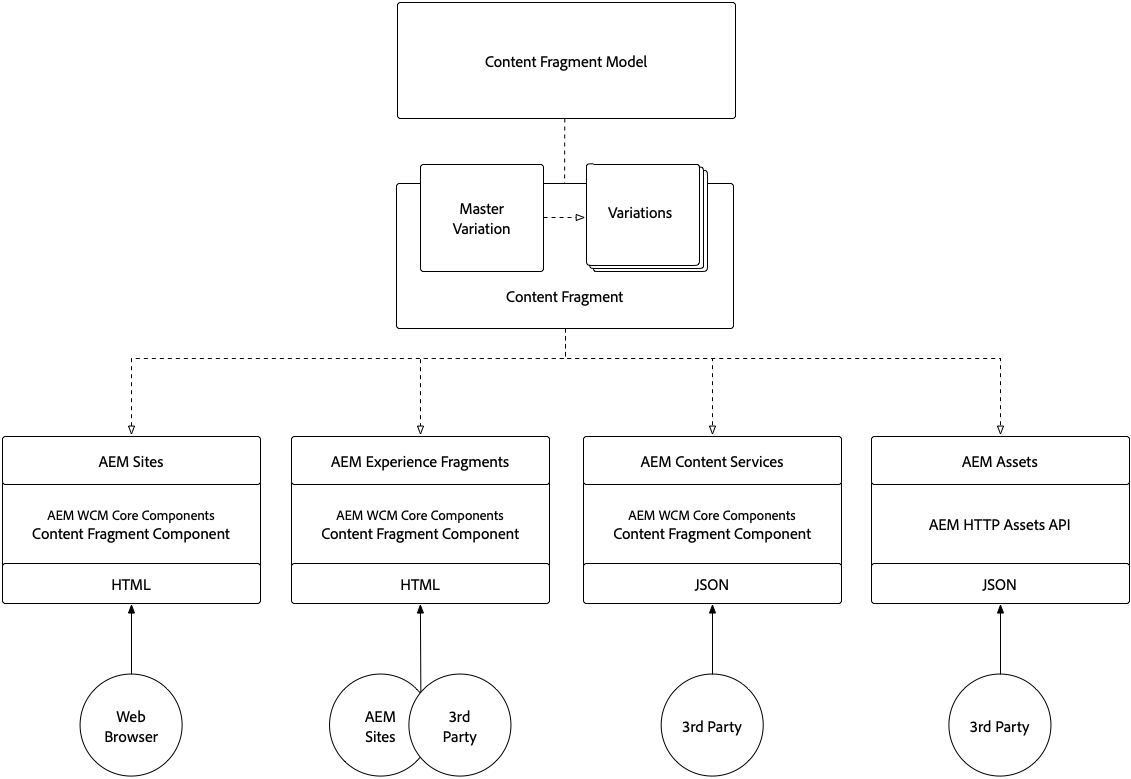
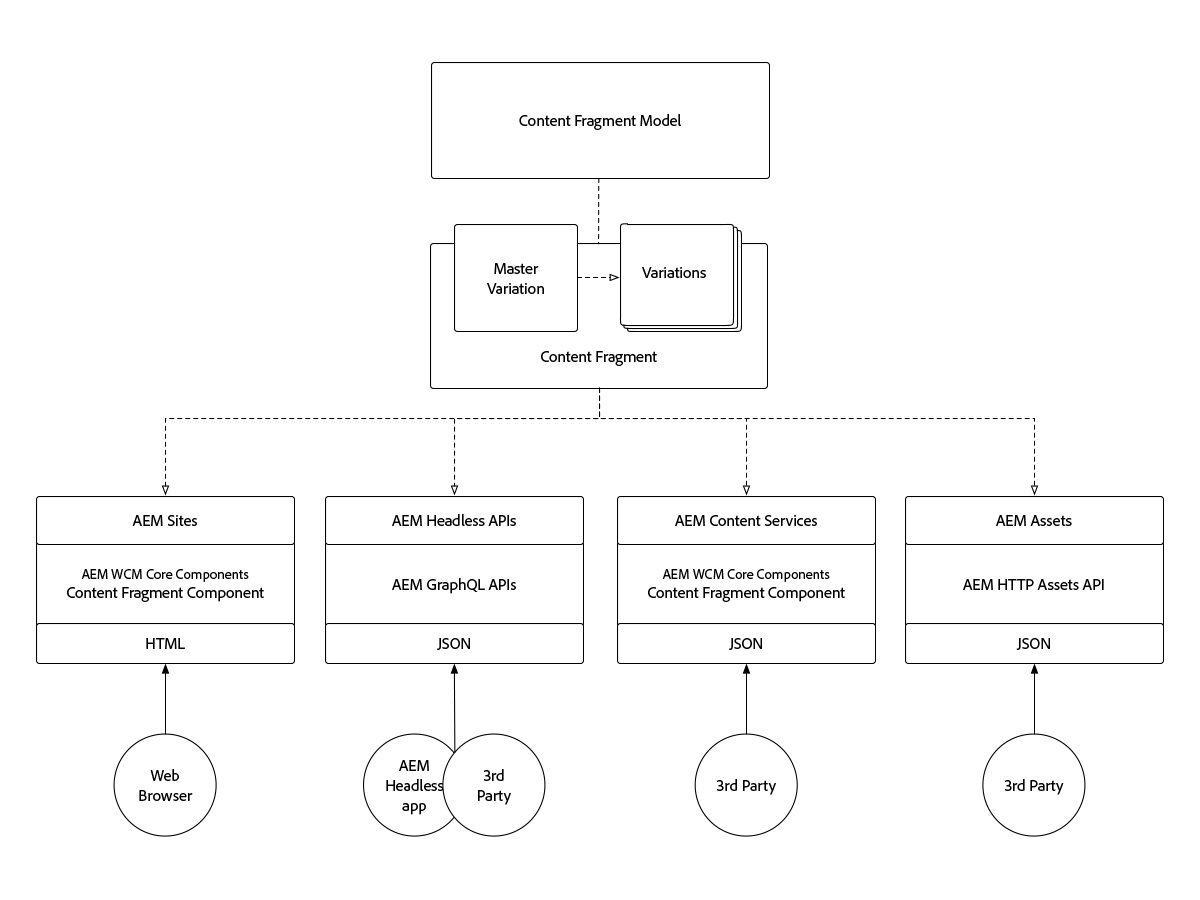
Updated CF to include AEM Headless APIs (#1110)
* Updated CF to include AEM Headless APIs

diff --git a/help/sites/content-fragments/understand-content-fragments-and-experience-fragments.md b/help/sites/content-fragments/understand-content-fragments-and-experience-fragments.md
@@ -1,5 +1,5 @@
 ---
-title: Understand Content Fragments and Experience Fragments
+title: Content Fragments and Experience Fragments
 description: Learn the similarities and differences between Content Fragments and Experience Fragments, and when and how to use each type.
 sub-product: Experience Manager Assets, Experience Manager Sites
 feature: Content Fragments, Experience Fragments
@@ -13,11 +13,11 @@ role: User
 level: Beginner
 exl-id: ccbc68d1-a83e-4092-9a49-53c56c14483e
 ---
-# Understand Content Fragments and Experience Fragments
+# Content Fragments and Experience Fragments
 
  Adobe Experience Manager's Content Fragments and Experience Fragments may seem similar on the surface, but each play key roles in different use cases. Learn how Content Fragments and Experience Fragments are similar, different, and when and how to use each.
 
-## Content Fragments and Experience Fragments comparison
+## Comparison
 
 <table>
 <tbody><tr><td><strong> </strong></td>
@@ -90,13 +90,17 @@ exl-id: ccbc68d1-a83e-4092-9a49-53c56c14483e
 <li>Annotations</li>
 <li>Responsive layout and preview</li>
 <li>Translation/localization</li>
+<li>Complex data-model via Content Fragment references</li>
+<li>In-app preview</li>
 </ul>
 </td>
 </tr><tr><td><strong>Use</strong></td>
 <td><ul>
+<li>JSON export via <a href="https://experienceleague.adobe.com/landing/experience-manager/headless/developer.html">AEM Headless GraphQL APIs</a></li>
 <li><a href="https://experienceleague.adobe.com/docs/experience-manager-core-components/using/components/content-fragment-component.html" target="_blank">AEM Core Components Content Fragment component</a> for use in AEM Sites, AEM Screens or in Experience Fragments.</li>
 <li>JSON export via <a href="https://experienceleague.adobe.com/docs/experience-manager-learn/getting-started-with-aem-headless/content-services/overview.html?lang=en" target="_blank">AEM Content Services</a> for 3rd party consumption</li>
-<li>JSON via AEM HTTP Assets APIs for 3rd party consumption.</li>
+<li>JSON export to Adobe Target for targeted offers</li>
+<li>JSON via AEM HTTP Assets APIs for 3rd party consumption</li>
 </ul>
 </td>
 <td><ul>
@@ -108,7 +112,8 @@ exl-id: ccbc68d1-a83e-4092-9a49-53c56c14483e
 </td>
 </tr><tr><td><strong>Common use cases</strong></td>
 <td><ul>
-<li>Highly structured data-entry/form-based content</li>
+<li>Powering headless use-cases over GraphQL</li>
+<li>Structured data-entry/form-based content</li>
 <li>Long-form editorial content (multi-line element)</li>
 <li>Content managed outside the life cycle of the channels delivering it</li>
 </ul>
@@ -136,20 +141,20 @@ exl-id: ccbc68d1-a83e-4092-9a49-53c56c14483e
 
 The following diagram illustrates the overall architecture for AEM Content Fragments
 
-!![Content Fragments architecture](./assets/content-fragments-architecture.png)
+![Content Fragments architecture](./assets/content-fragments-architecture.png)
 
 + **Content Fragment Models** define the elements (or fields) that define what content the Content Fragment may capture and expose.
 + The **Content Fragment** is an instance of a Content Fragment Model that represents a logical content entity.
 + Content Fragment **variations** adhere to the Content Fragment Model, however, have variations in content.
 + Content Fragments can be exposed/consumed by:
   + Using Content Fragments on **AEM Sites** (or AEM Screens) via the AEM WCM Core Components' Content Fragment component.
-  + Embedding a Content Fragment in an **Experience Fragment** via the AEM WCM Core Components' Content Fragment component, for use in any Experience Fragment use case.
+  + Consume **Content Fragment** from headless apps using AEM Headless GraphQL APIs.
   + Exposing a Content Fragment variations content as JSON via **AEM Content Services** and API Pages for read-only use cases.
   + Directly exposing Content Fragment content (all variations) as JSON via direct calls to AEM Assets via the **AEM Assets HTTP API** for CRUD use cases.
 
 ## Experience Fragments architecture
 
-!![Experience Fragments architecture](./assets/experience-fragments-architecture.png)
+![Experience Fragments architecture](./assets/experience-fragments-architecture.png)
 
 + **Editable Templates**, which in turn are defined by **Editable Template Types** and an **AEM Page component implementation**, define the allowed AEM Components that can be used to compose an Experience Fragment.
 + The **Experience Fragment** is an instance of an Editable Template that represents a logical experience.
@@ -161,15 +166,16 @@ The following diagram illustrates the overall architecture for AEM Content Fragm
   + Exporting Experience Fragments to **Adobe Target** as either HTML or JSON offers.
   + AEM Sites natively supports HTML offers, however, JSON offers require custom development.
 
-## Supporting materials for Content Fragments
+## Supporting resource for Content Fragments
 
 + [Content Fragments User Guide](https://experienceleague.adobe.com/docs/experience-manager-65/assets/home.html?lang=en&topic=/experience-manager/6-5/assets/morehelp/content-fragments.ug.js)
++ [Introduction to Adobe Experience Manager as a Headless CMS](https://experienceleague.adobe.com/docs/experience-manager-cloud-service/content/headless/introduction.html)
 + [Using Content Fragments in AEM](https://experienceleague.adobe.com/docs/experience-manager-learn/sites/content-fragments/content-fragments-feature-video-use.html?lang=en)
 + [AEM WCM Core Components' Content Fragment component](https://experienceleague.adobe.com/docs/experience-manager-core-components/using/components/content-fragment-component.html)
 + [Using Content Fragments and AEM Headless](https://experienceleague.adobe.com/docs/experience-manager-learn/getting-started-with-aem-headless/overview.html?lang=en)
 + [Getting Started with AEM Content Services](https://experienceleague.adobe.com/docs/experience-manager-learn/getting-started-with-aem-headless/content-services/overview.html?lang=en)
 
-## Supporting materials for Experience Fragments
+## Supporting resource for Experience Fragments
 
 + [Adobe documentation on Experience Fragments](https://experienceleague.adobe.com/docs/experience-manager-65/authoring/authoring/experience-fragments.html?lang=en)
 + [Understanding AEM Experience Fragments](https://experienceleague.adobe.com/docs/experience-manager-learn/sites/experience-fragments/experience-fragments-feature-video-use.html?lang=en)
